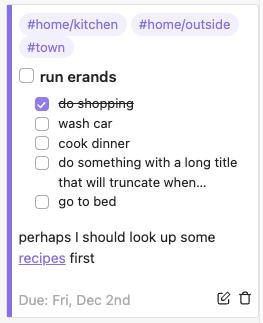
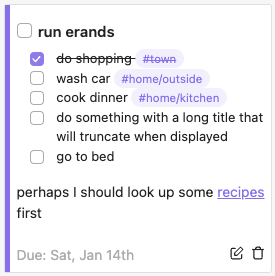
Cleanup: update README

diff --git a/scripts/generate_example_tasks.rb b/scripts/generate_example_tasks.rb
@@ -80,7 +80,7 @@ File.open(undated_tasks, "w") do |file|
 - [ ] another undated task (but with a block id) ^34d21
 
 - [ ] #important and this is a task tagged as important #projects/project1 #status/backlog
-- [ ] and this is a task NOT tagged as important #projects/project1 #status/wip
+- [ ] and this is a task NOT tagged as important #projects/project1 #status/doing
 
 - [ ] a Dataview task with a due date [due:: #{(Date.today).strftime("%Y-%m-%d")}]
 - [x] a completed Dataview task with a due date [due:: #{(Date.today - 1).strftime("%Y-%m-%d")}] [completion:: #{(Date.today - 1).strftime("%Y-%m-%d")}]

diff --git a/README.md b/README.md
@@ -15,13 +15,13 @@ An [Obsidian](https://obsidian.md/) plugin to make working with tasks a pleasure
   - Tag based (uses `#tags` to define your boards).
 
 ## New
-- Auto-generated column names (e.g. Untagged, Today, Completed...) can be customized.
-- Honours global RTL mode set in obsidian.
-- Clicking on any tag rendered on a card opens up the obsidian search for that tag.
-- Works with the [Colorful Tag](https://obsidian.md/plugins?id=obsidian-colorful-tag)
-  plugin. Adding this has changed the way tags can be customised using CSS Snippets.  See the
-  [Customising Tags](#customising-tags) section below for info on what any snippets now
-  need to look like to work with the latest version.
+- Option to choose whether to apply tag filters to top level tasks, sub-tasks, or
+  both.
+- Clean-up of many edge cases that led to odd behavior such as cards vanishing
+  from boards when marked as complete, or the information on a card changing depending
+  which column it was displayed in.  If you are used to the way things used to work
+  you may well notice a change (hopefully for the best).
+- Sub-task tags now shown inline rather than at the top of the card.
 
 ![date based board screenshot](/images/dateBoard.png?raw=true)
 
@@ -173,12 +173,21 @@ encouraging you to do something about them; like do them or move them to a futur
 date if you want to schedule them later.
 
 
+### Completed tasks
+If you choose to show completed tasks on your date board, you will only see
+completed tasks which have a due date unless the Undated column is enabled.
+
+
 ## Tag boards
 If you give your tasks tags, you can use these to set up a tag-board.  So if you
 have the tags `#status/backlog`, `#status/triaged`, `status/blocked`, `#status/doing`,
 you can define a board that shows tasks tagged with these in separate columns:
 
 ![tag board settingx](/images/tagBoardSettings.png?raw=true)
+
+
+### Sub-tasks
+Tasks which have sub-tasks with matching tags will also appear on the board.
 
 ### Subtags
 If you specify a tag with a trailing `/` then the column will contain all subtags of the tag.
@@ -203,6 +212,24 @@ you can show/hide them in the settings.  If you choose not to show the column ta
 this will hide all the tags used in the settings wherever cards are on the board.
 Only tags that exactly match those used in the settings will be hidden.
 
+### Completed tasks
+When a task is shown in a column due to tags on sub-tasks it will only show in that
+column if those subtasks are incomplete.  So the following
+task is shown only in the Barney column as the Wilma sub-task is complete:
+
+![wilma_barney](/images/wilma_barney.png?raw=true)
+
+This does mean that a card can appear in the completed column of a tag board even if
+the top level task is not complete, e.g for the above example if the barney task is
+marked as complete the card will move to the Completed column:
+
+![wilma_barney_completed](/images/wilma_barney_completed.png?raw=true)
+
+The board config defines which tasks will appear on a Tag board, and this is true for
+the completed column too; only tasks which would appear on the board if all tasks and
+subtasks were marked as incomplete can ever be in the Completed column.
+
+
 ## Board Filters
 You can filter which tasks appear on each board in the board settings.  There are 3
 types of filter you can use: file, path, and #tags (which includes front matter tags).  You can
@@ -213,6 +240,12 @@ You can also:
 - Choose whether to use the filters as an allow or a deny list.
 - Choose if you want any tags specified as a filter to be shown or
   hidden on cards on the board.
+
+Filters are applied before tasks are placed onto a board:
+
+![filters](/images/filters.png?raw=true)
+
+
 
 ## Settings
 Plugin settings are accessible from the plugin view itself, via the settings icon
@@ -303,8 +336,10 @@ the minimum width of the cards.
 
 ## Limitations
 - Might not work that great on large vaults (as it parses all markdown files at startup).
-- Might not be great on mobile (see previous, plus I haven't made the interface mobile
-  friendly - yet).
+- Might not work that great on large files (as it parses all markdown files, and doesn't use
+  any form of cache).
+- Might not be great on mobile (see previous, plus I haven't put any particular effort into
+  making the interface mobile friendly - yet).
 
 ## Alternatives
 If the way that this works isn't for for you, there are plenty of other fabulous

diff --git a/TODO.md b/TODO.md
@@ -2,24 +2,6 @@
   always be empty as by definition tasks on the board will always have one of the allow filter tags. Even
   better, as well as this disable the input and set it to off so the column cannot be displayed.
 
-- redo screenshots as things like sub-task tags are now inline
-- explain in the readme the rules for what appears on boards
-  - the column definitions define what is visible on the board.  This
-    includes the completed column
-  - if a card is on a board then it will always be placed in the completed column
-    (assuming it is visible) when it is marked as complete
-  - and vice-vera (so if marked incomplete
-  - a card will always look the same (apart from the completion tick)
-    when it is marked as completed
-  - the completed column can contain tasks that are not marked as completed
-    at the top level - completed just means completed in the context of the
-    current board.
-  - if a card is only on a board due to tags of sub-tasks then it will be
-    considered as complete in the relevant column when all subtasks with
-    that tag are completed.
-- explain in readme the pipleline of filter first then place on the board
-
-
 - simplify parsing as per typing tutor
 
 # Cleanups
